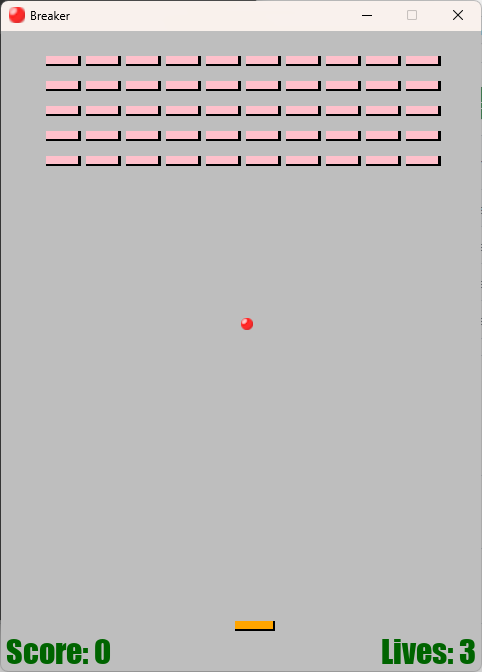
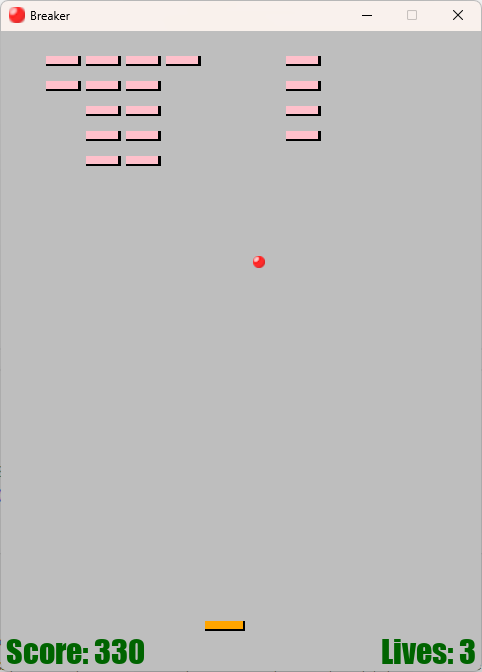
playable

diff --git a/main.py b/main.py
@@ -17,8 +17,8 @@ running = True
 font = pygame.font.SysFont("impact", 32)
 
 dt = 0
-player_step = 100
-ball_step = 200
+player_step = 150
+ball_step = 300
 score = 0
 lives = 3
 
@@ -49,6 +49,17 @@ while running:
     for block in blocks:
         if ball_pos.colliderect(block[0], block[1], 35, 10):
             blocks.remove(block)
+            score += 10
+        if len(blocks) == 0:
+            x = 5
+            y = 25
+            for _ in range(5):
+                for _ in range(10):
+                    x += 40
+                    blocks.append((x, y))
+                y += 25
+                x = 5
+            score += 250
             
     for block in blocks:
         pygame.draw.rect(screen, "black", (block[0], block[1], 35, 10), 35)
@@ -65,13 +76,23 @@ while running:
     screen.blit(lives_text, (WIDTH - 100, HEIGHT - 40))
     
     if ball_pos.centery >= HEIGHT:
+        player_pos = pygame.rect.Rect(WIDTH / 2, HEIGHT - 50, 38, 8)
         ball_pos = pygame.rect.Rect(WIDTH / 2, HEIGHT / 2, 8, 8)
         ball_dir_x = 1
         ball_dir_y = 1
         ball_ang = 0
         lives -= 1
         if lives < 0:
-            running = False
+            lives = 3
+            score = 0
+            x = 5
+            y = 25
+            for _ in range(5):
+                for _ in range(10):
+                    x += 40
+                    blocks.append((x, y))
+                y += 25
+                x = 5
     
     if ball_pos.centerx <= 0:
         ball_dir_x *= -1
